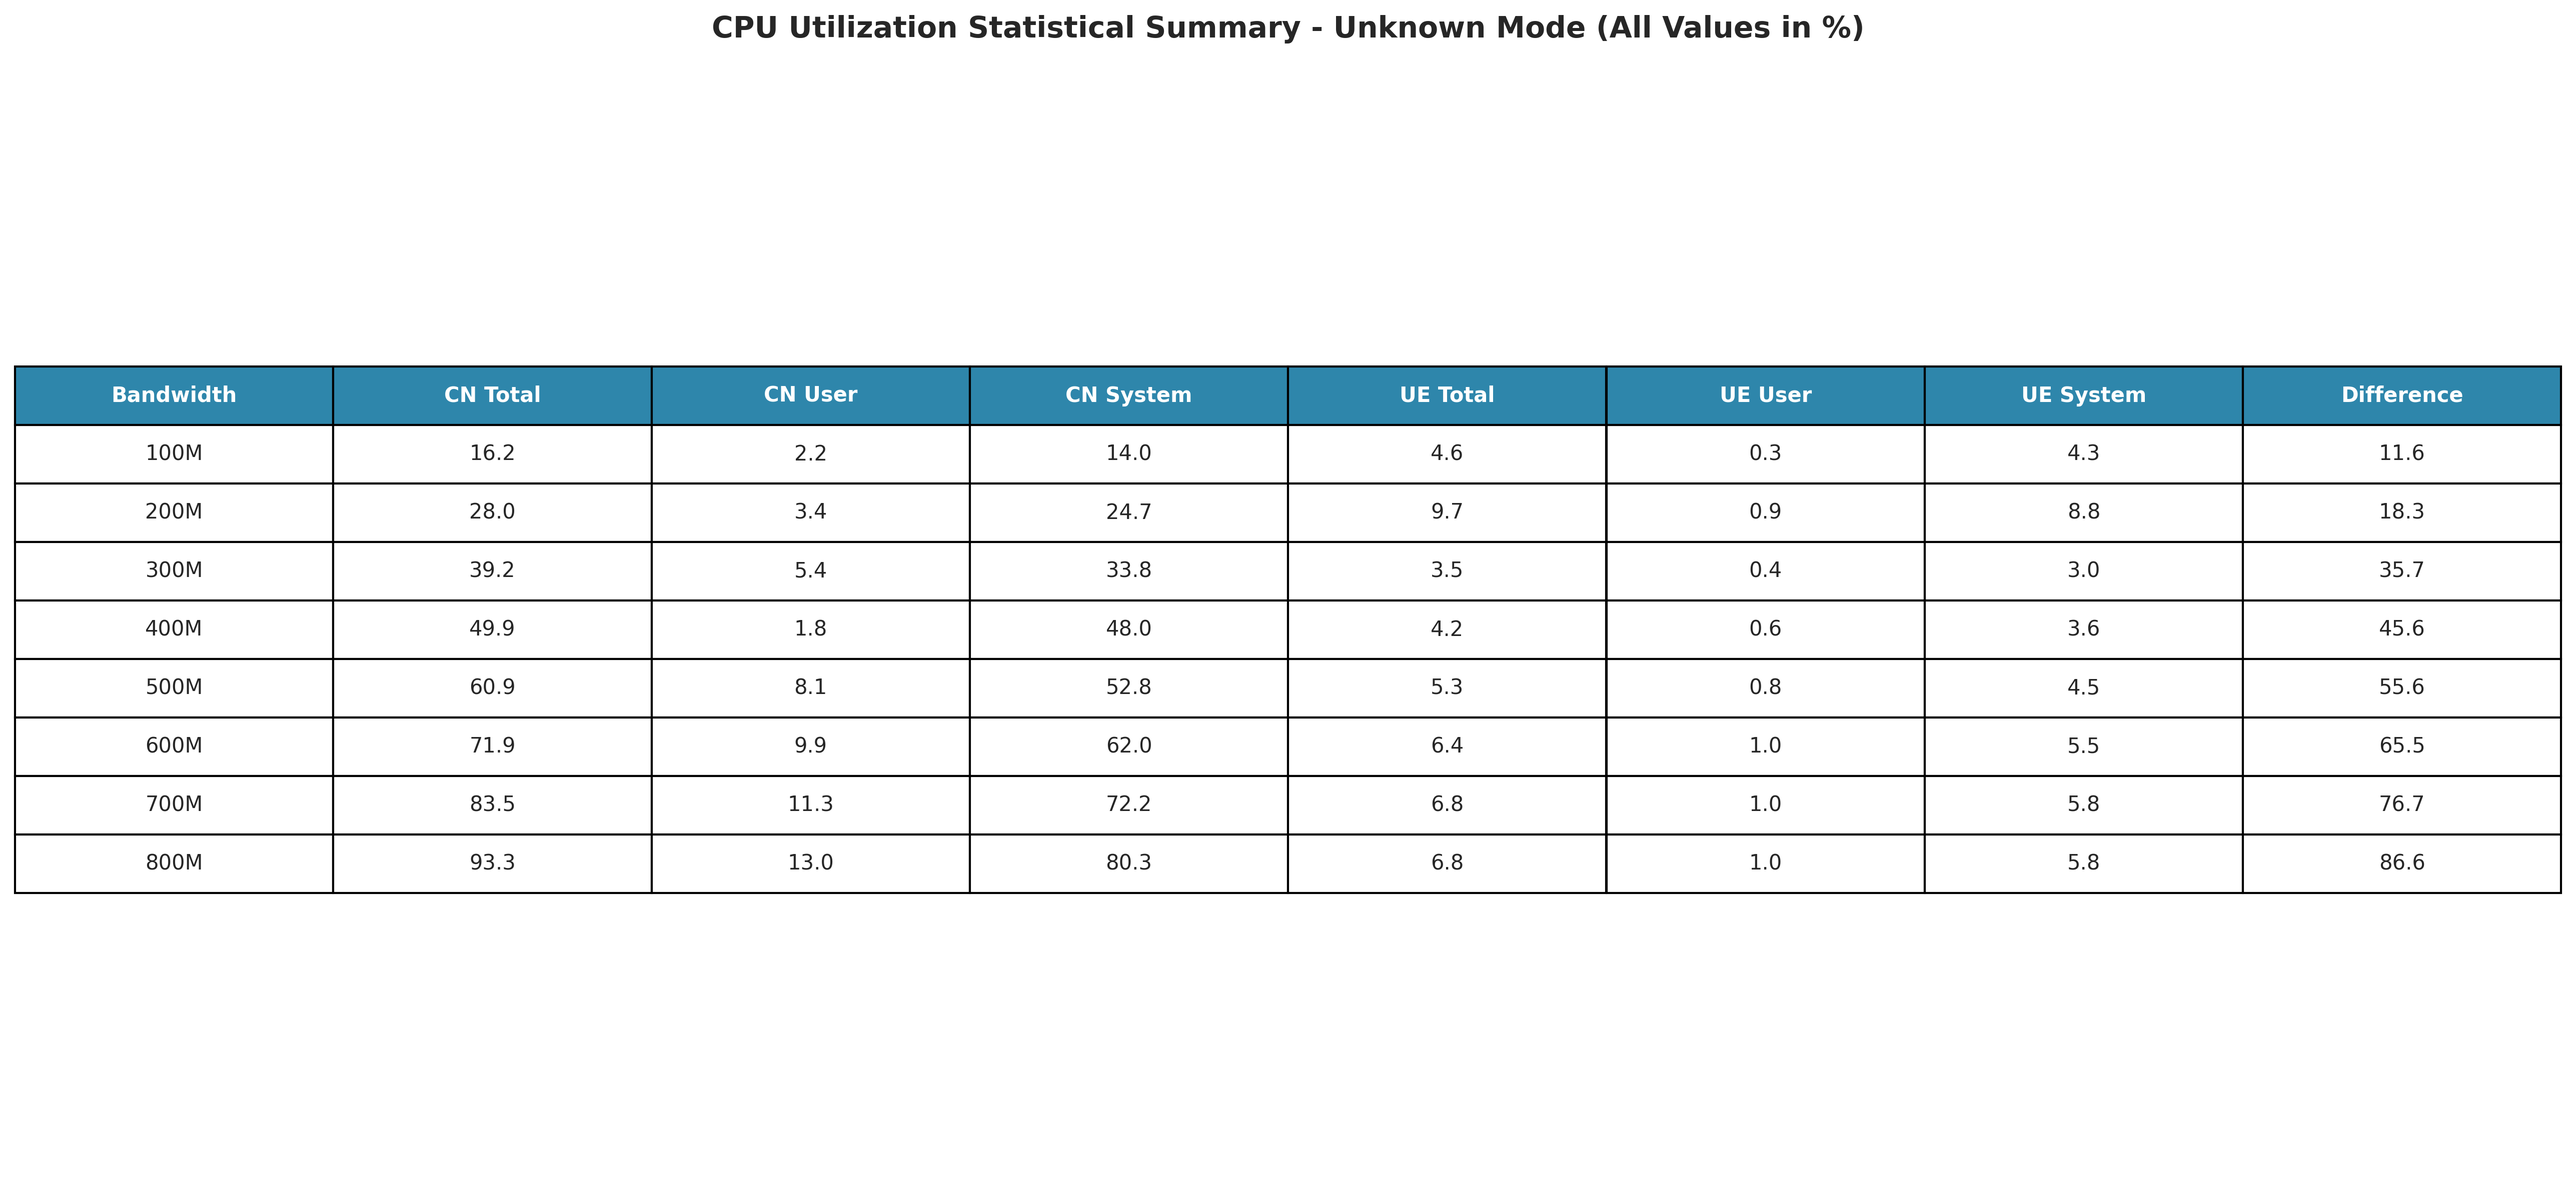
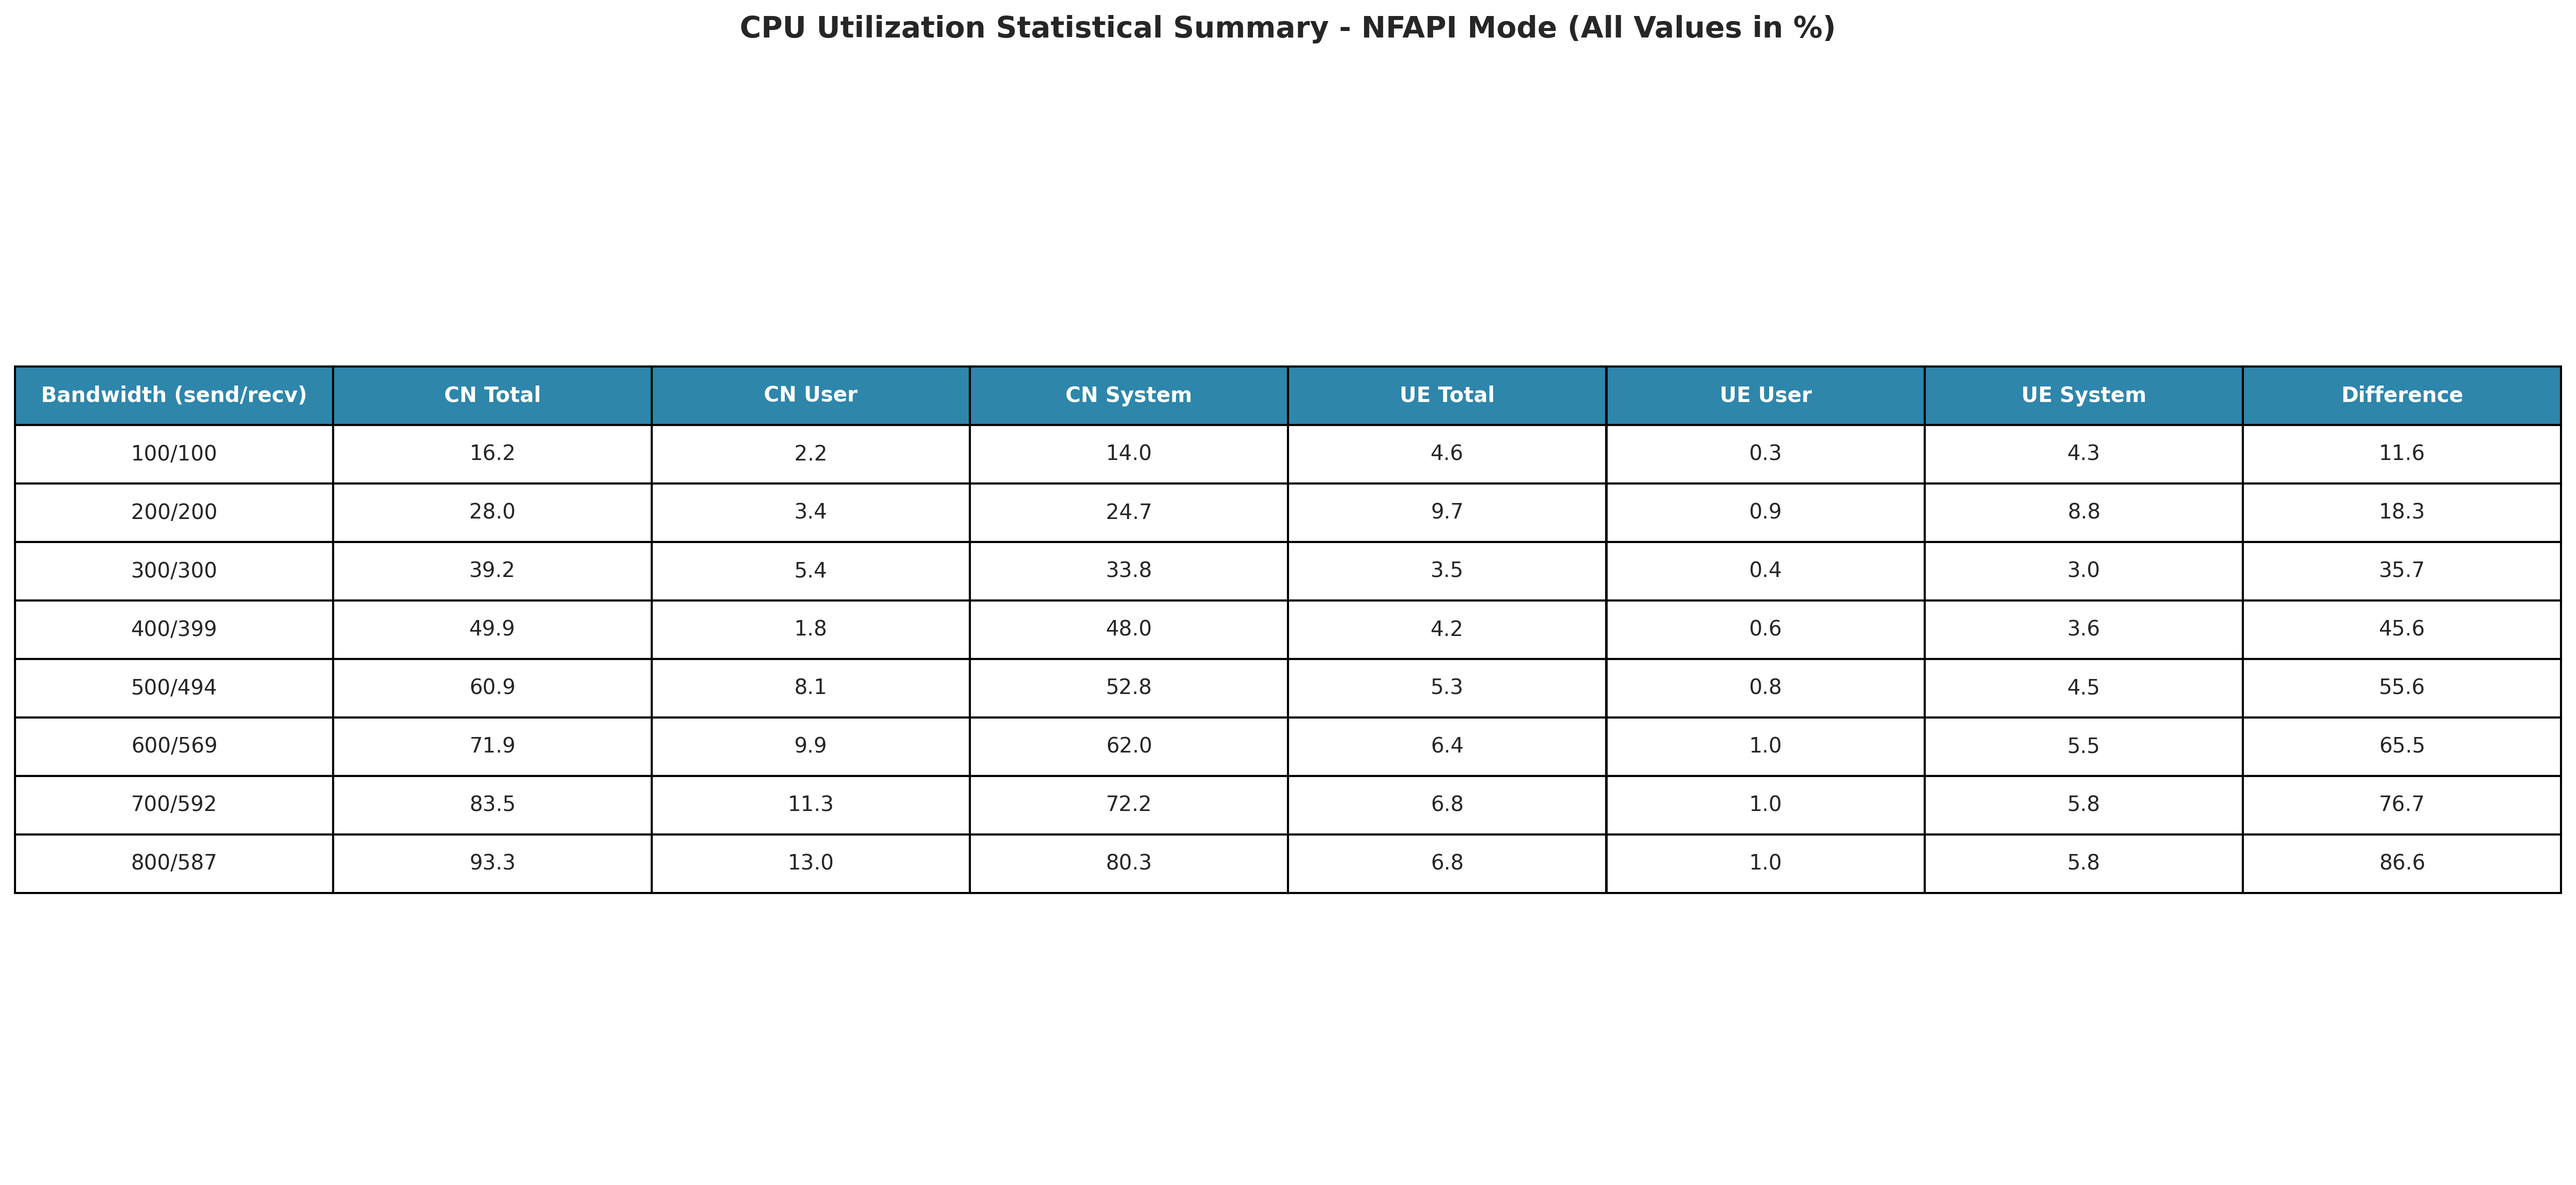
Refactor mode extraction logic in multiple scripts for consistency and reliability

diff --git a/scripts/analyze_throughput.py b/scripts/analyze_throughput.py
@@ -43,37 +43,20 @@ def extract_throughput_data(file_path):
         return None
 
 def extract_mode_from_folder(folder_path):
-    """Extract mode from folder name pattern: MODE(bandwidth) or YYYYMMDD-MODE(bandwidth)"""
+    """Extract mode from folder name - simplified and reliable"""
     folder_name = Path(folder_path).name
-    try:
-        # Handle date prefix pattern: YYYYMMDD-MODE(bandwidth)
-        if folder_name and len(folder_name) > 8 and folder_name[8:9] == '-':
-            # Remove date prefix (first 9 characters: YYYYMMDD-)
-            folder_name = folder_name[9:]
-        
-        # Extract mode before parentheses
-        if '(' in folder_name:
-            mode_part = folder_name.split('(')[0].strip()
-            # Remove any trailing dashes or hyphens
-            mode_part = mode_part.rstrip('-').strip()
-            return mode_part if mode_part else "Unknown Mode"
-        
-        # If no parentheses, check for common mode patterns
-        if '-' in folder_name:
-            parts = folder_name.split('-')
-            # Return the first non-empty part that's not a number
-            for part in parts:
-                part = part.strip()
-                if part and not part.isdigit():
-                    return part
-        
-        # Clean up the folder name and return
-        cleaned_name = folder_name.strip()
-        return cleaned_name if cleaned_name else "Unknown Mode"
-    except Exception as e:
-        print(f"Warning: Error parsing folder name '{folder_name}': {e}")
-        return "Unknown Mode"
-
+    
+    # Handle date prefix pattern: YYYYMMDD-MODE
+    if len(folder_name) > 8 and folder_name[8:9] == '-':
+        folder_name = folder_name[9:]
+    
+    # Extract mode before parentheses or first part
+    if '(' in folder_name:
+        mode = folder_name.split('(')[0].strip().rstrip('-')
+    else:
+        mode = folder_name.split('-')[0] if '-' in folder_name else folder_name
+    
+    return mode.strip() if mode.strip() else "Unknown"
 def get_bandwidth_configs(data_dir):
     """Find all bandwidth configuration files"""
     configs = []
@@ -170,7 +153,7 @@ def find_iperf_files(data_dir, bandwidth_val):
     
     return cn_file, ue_file
 
-def create_throughput_comparison_plot(results_dict, output_dir):
+def create_throughput_comparison_plot(results_dict, data_dir, output_dir):
     """Create professional throughput comparison with consistent styling"""
     
     plt.style.use('seaborn-v0_8-whitegrid')
@@ -181,7 +164,7 @@ def create_throughput_comparison_plot(results_dict, output_dir):
     width = 0.35
     
     # Extract mode from output directory
-    mode = extract_mode_from_folder(output_dir.parent) if hasattr(output_dir, 'parent') else "Unknown"
+    mode = extract_mode_from_folder(data_dir)
     
     fig, ax = plt.subplots(figsize=(16, 10))
     
@@ -296,7 +279,7 @@ def analyze_throughput(data_dir=None):
     
     # Create throughput comparison plot
     try:
-        output_file = create_throughput_comparison_plot(results_dict, output_dir)
+        output_file = create_throughput_comparison_plot(results_dict, data_dir, output_dir)
         print(f"✅ Throughput comparison plot saved: {output_file.name}")
     except Exception as e:
         print(f"❌ Error creating throughput plot: {e}")

diff --git a/scripts/data_selector.py b/scripts/data_selector.py
@@ -47,19 +47,21 @@ def load_last_data_dir():
         pass
     return None
 
-def extract_mode_from_folder(folder_name):
-    """Extract mode from folder name pattern: YYYYMMDD-MODE(bandwidth)"""
-    try:
-        # Pattern: 20250528-nFAPI(100-500M)
-        if '-' in folder_name and '(' in folder_name:
-            # Split by '-' and take the part before '('
-            parts = folder_name.split('-')
-            if len(parts) >= 2:
-                mode_part = parts[1].split('(')[0]
-                return mode_part
-        return "Unknown"
-    except:
-        return "Unknown"
+def extract_mode_from_folder(folder_path):
+    """Extract mode from folder name - simplified and reliable"""
+    folder_name = Path(folder_path).name
+    
+    # Handle date prefix pattern: YYYYMMDD-MODE
+    if len(folder_name) > 8 and folder_name[8:9] == '-':
+        folder_name = folder_name[9:]
+    
+    # Extract mode before parentheses or first part
+    if '(' in folder_name:
+        mode = folder_name.split('(')[0].strip().rstrip('-')
+    else:
+        mode = folder_name.split('-')[0] if '-' in folder_name else folder_name
+    
+    return mode.strip() if mode.strip() else "Unknown"
 
 def get_available_data_directories():
     """Get list of available data directories"""

diff --git a/scripts/analyze_packet_loss.py b/scripts/analyze_packet_loss.py
@@ -72,15 +72,20 @@ def get_loss_rate_color(loss_rate):
         return '#DC143C'  # Crimson (Worst)
 
 def extract_mode_from_folder(folder_path):
-    """Extract mode from folder name"""
+    """Extract mode from folder name - simplified and reliable"""
     folder_name = Path(folder_path).name
     
-    if '-' in folder_name:
-        parts = folder_name.split('-')
-        if len(parts) >= 2:
-            mode_part = parts[1].split('(')[0]
-            return mode_part
-    return "Unknown Mode"
+    # Handle date prefix pattern: YYYYMMDD-MODE
+    if len(folder_name) > 8 and folder_name[8:9] == '-':
+        folder_name = folder_name[9:]
+    
+    # Extract mode before parentheses or first part
+    if '(' in folder_name:
+        mode = folder_name.split('(')[0].strip().rstrip('-')
+    else:
+        mode = folder_name.split('-')[0] if '-' in folder_name else folder_name
+    
+    return mode.strip() if mode.strip() else "Unknown"
 
 def analyze_packet_loss(data_dir=None):
     """Main function to analyze and plot UE packet loss data"""

diff --git a/scripts/analyze_loss_rate.py b/scripts/analyze_loss_rate.py
@@ -58,15 +58,20 @@ def find_iperf_files(data_dir, bandwidth_val):
     return cn_file, ue_file
 
 def extract_mode_from_folder(folder_path):
-    """Extract mode from folder name"""
+    """Extract mode from folder name - simplified and reliable"""
     folder_name = Path(folder_path).name
     
-    if '-' in folder_name:
-        parts = folder_name.split('-')
-        if len(parts) >= 2:
-            mode_part = parts[1].split('(')[0]
-            return mode_part
-    return "Unknown Mode"
+    # Handle date prefix pattern: YYYYMMDD-MODE
+    if len(folder_name) > 8 and folder_name[8:9] == '-':
+        folder_name = folder_name[9:]
+    
+    # Extract mode before parentheses or first part
+    if '(' in folder_name:
+        mode = folder_name.split('(')[0].strip().rstrip('-')
+    else:
+        mode = folder_name.split('-')[0] if '-' in folder_name else folder_name
+    
+    return mode.strip() if mode.strip() else "Unknown"
 
 def analyze_loss_rate(data_dir=None):
     """Main function to analyze and plot loss rate data"""

diff --git a/scripts/analyze_jitter.py b/scripts/analyze_jitter.py
@@ -63,15 +63,20 @@ def find_iperf_files(data_dir, bandwidth_val):
     return cn_file, ue_file
 
 def extract_mode_from_folder(folder_path):
-    """Extract mode from folder name"""
+    """Extract mode from folder name - simplified and reliable"""
     folder_name = Path(folder_path).name
     
-    if '-' in folder_name:
-        parts = folder_name.split('-')
-        if len(parts) >= 2:
-            mode_part = parts[1].split('(')[0]
-            return mode_part
-    return "Unknown Mode"
+    # Handle date prefix pattern: YYYYMMDD-MODE
+    if len(folder_name) > 8 and folder_name[8:9] == '-':
+        folder_name = folder_name[9:]
+    
+    # Extract mode before parentheses or first part
+    if '(' in folder_name:
+        mode = folder_name.split('(')[0].strip().rstrip('-')
+    else:
+        mode = folder_name.split('-')[0] if '-' in folder_name else folder_name
+    
+    return mode.strip() if mode.strip() else "Unknown"
 
 def analyze_jitter(data_dir=None):
     """Main function to analyze and plot jitter data"""

diff --git a/scripts/analyze_packet_count.py b/scripts/analyze_packet_count.py
@@ -64,15 +64,20 @@ def find_iperf_files(data_dir, bandwidth_val):
     return cn_file, ue_file
 
 def extract_mode_from_folder(folder_path):
-    """Extract mode from folder name"""
+    """Extract mode from folder name - simplified and reliable"""
     folder_name = Path(folder_path).name
     
-    if '-' in folder_name:
-        parts = folder_name.split('-')
-        if len(parts) >= 2:
-            mode_part = parts[1].split('(')[0]
-            return mode_part
-    return "Unknown Mode"
+    # Handle date prefix pattern: YYYYMMDD-MODE
+    if len(folder_name) > 8 and folder_name[8:9] == '-':
+        folder_name = folder_name[9:]
+    
+    # Extract mode before parentheses or first part
+    if '(' in folder_name:
+        mode = folder_name.split('(')[0].strip().rstrip('-')
+    else:
+        mode = folder_name.split('-')[0] if '-' in folder_name else folder_name
+    
+    return mode.strip() if mode.strip() else "Unknown"
 
 def format_large_number(num):
     """Format large numbers with appropriate units"""
